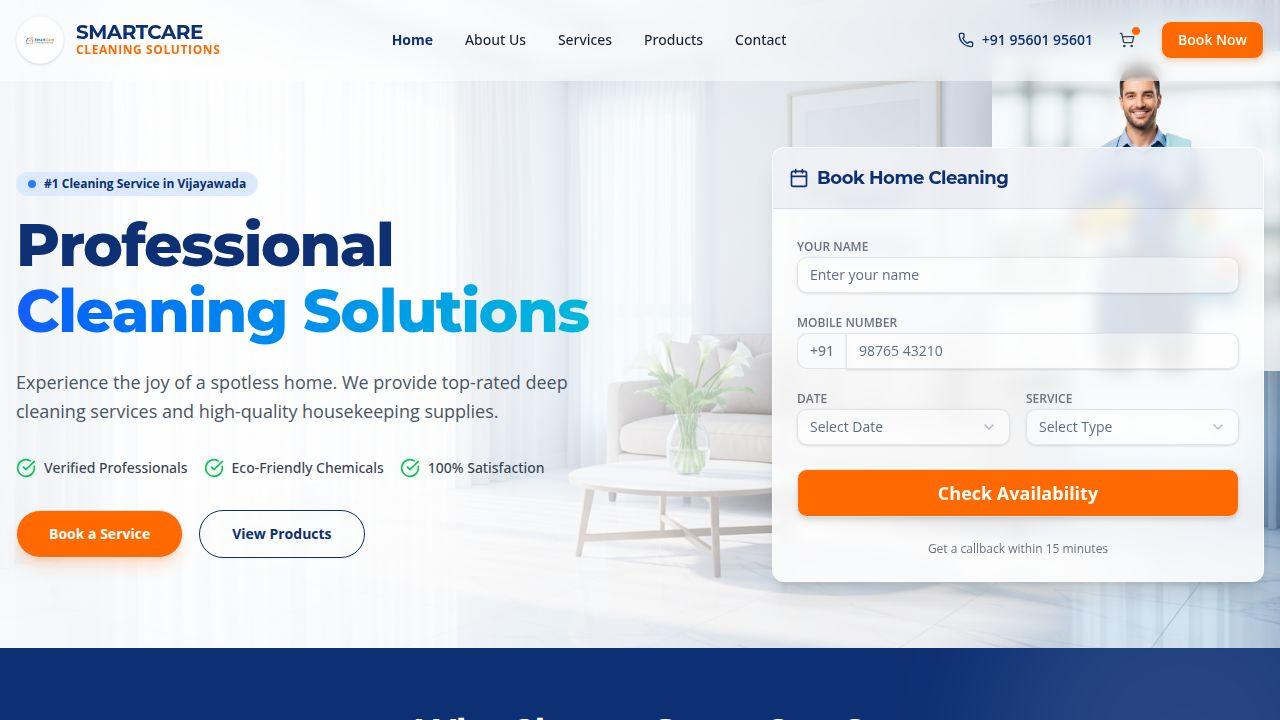
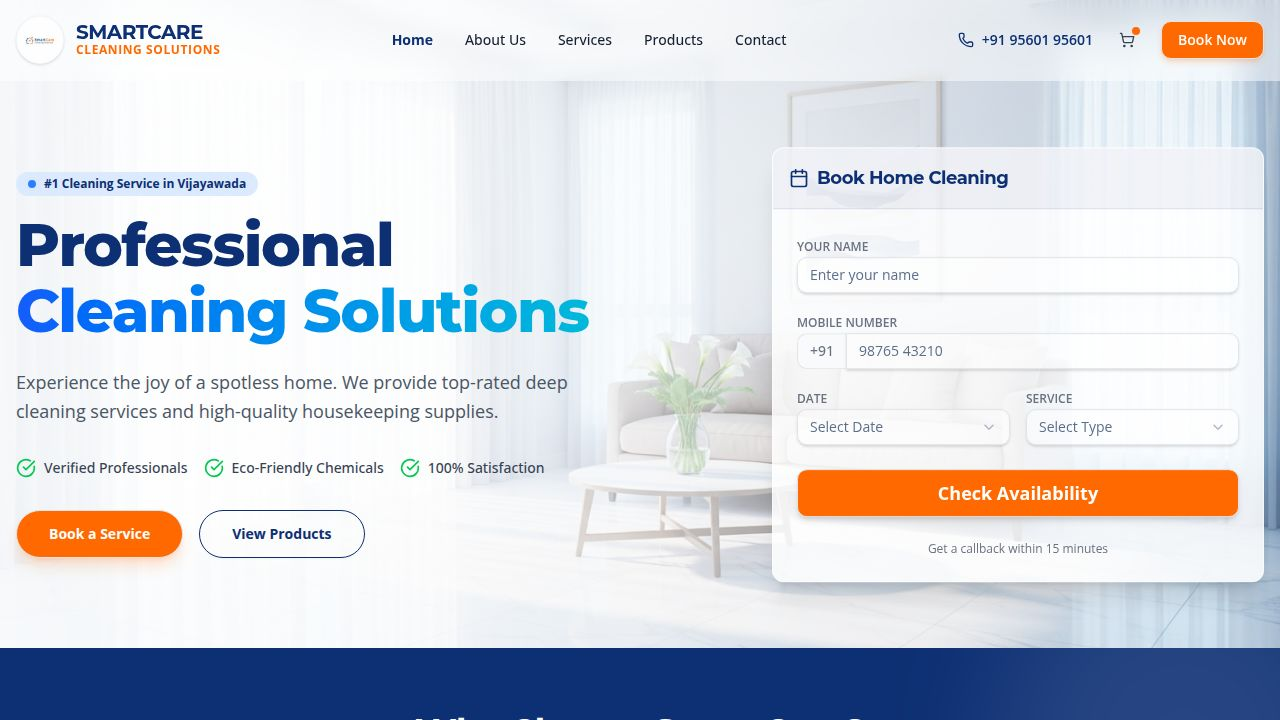
Remove background image from home page hero section
Remove the cleaner man image from the Hero component in `client/src/components/sections/Hero.tsx`.

Replit-Commit-Author: Agent
Replit-Commit-Session-Id: 6272dd26-5896-4757-b802-da373305619a
Replit-Commit-Checkpoint-Type: full_checkpoint
Replit-Commit-Event-Id: 2e553726-92b3-4c5a-ac31-f617113f6387
Replit-Commit-Screenshot-Url: https://storage.googleapis.com/screenshot-production-us-central1/3714cc43-5272-40b3-8215-0a4bdf154c45/6272dd26-5896-4757-b802-da373305619a/dqYJXIw
Replit-Helium-Checkpoint-Created: true

Changed region(s): [[0.75, 0.0611, 1.0, 0.5194], [0.8438, 0.2444, 0.9375, 0.3667], [0.8438, 0.3972, 0.9375, 0.4889]]

diff --git a/client/src/components/sections/Hero.tsx b/client/src/components/sections/Hero.tsx
@@ -76,15 +76,6 @@ export default function Hero() {
 
         {/* Right Booking Card */}
         <div className="lg:col-span-5 relative">
-          {/* Floating Person Image (Desktop Only) */}
-          <motion.img
-             initial={{ opacity: 0, scale: 0.8, x: 50 }}
-             animate={{ opacity: 1, scale: 1, x: 0 }}
-             transition={{ duration: 0.7, delay: 0.2 }}
-             src={cleanerMan}
-             alt="Professional Cleaner"
-             className="hidden lg:block absolute -right-12 -top-24 w-80 h-80 object-contain z-0 pointer-events-none drop-shadow-2xl"
-          />
 
           <motion.div
             initial={{ opacity: 0, y: 30 }}
